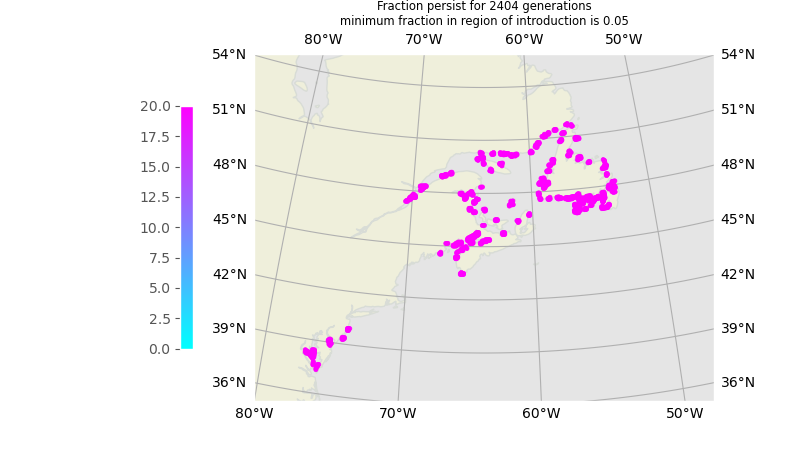
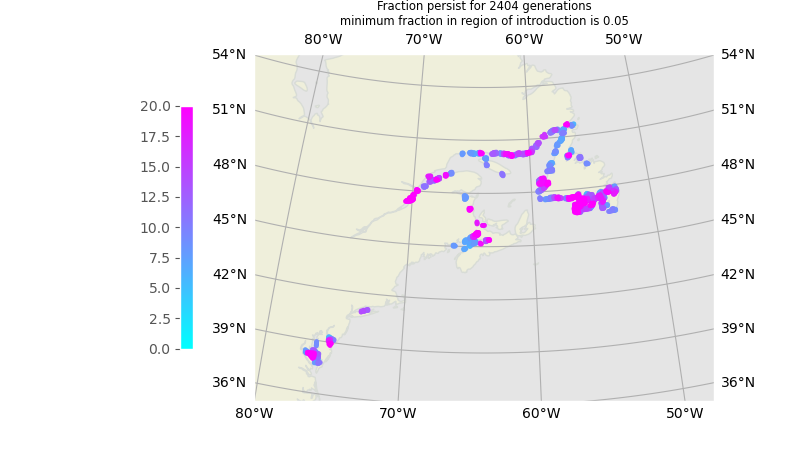
update long runs

diff --git a/CodeForCarcinus/05_B_analyzeWhereSurvivorsStarted_RelativeFitnessModel_onlyIfInIntroductionLocation.py b/CodeForCarcinus/05_B_analyzeWhereSurvivorsStarted_RelativeFitnessModel_onlyIfInIntroductionLocation.py
@@ -11,7 +11,7 @@ import cartopy
 
 #What model run are we using
 ConnectivityModelName='E_CmaenasHab_depth1_minPLD40_maxPLD40_months5_to_6';
-Pmax=1; Tmax=601*4; R0=8.8; R1=8.0; Nintro=1; nRun=5
+Pmax=1; Tmax=601*4; R0=8.8; R1=8.0; Nintro=1; nRun=100
 
 #load connectivity data
 EfileName='transposes/twoSpecies_'+ConnectivityModelName+'.zarr'

diff --git a/CodeForCarcinus/05_analyzeWhereSurvivorsStarted_RelativeFitnessModel.py b/CodeForCarcinus/05_analyzeWhereSurvivorsStarted_RelativeFitnessModel.py
@@ -11,7 +11,7 @@ import cartopy
 
 #What model run are we using
 ConnectivityModelName='E_CmaenasHab_depth1_minPLD40_maxPLD40_months5_to_6';
-Pmax=1; Tmax=601*4; R0=8.8; R1=8.0; Nintro=1; nRun=5
+Pmax=1; Tmax=601*4; R0=8.8; R1=8.0; Nintro=1; nRun=100
 
 #load connectivity data
 EfileName='transposes/twoSpecies_'+ConnectivityModelName+'.zarr'
